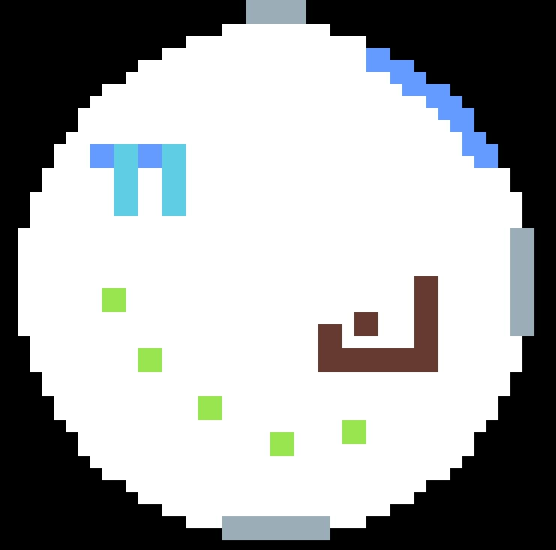
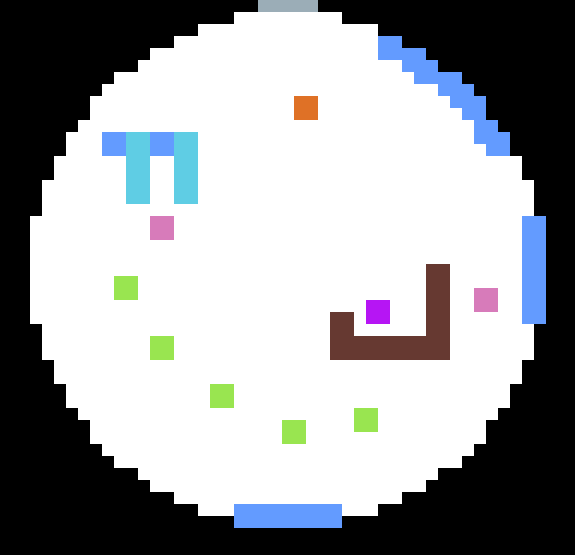
#14 #18 Updated medbay to include enemy/player pos; Added Legend to README

diff --git a/concept/README.md b/concept/README.md
@@ -48,6 +48,8 @@ Research Lab | 1 Normal, 1 Red, 1 Green, 1 Large + Recoil avoidance + Grav Plati
 
 **Note**: All rooms are sealed once the player enters them. They have to complete the challenge to leave.
 
+![Legend](images/00_room_legend.png)
+
 1. ### Crew Quarters 
     * Starting room? Safe room with no monsters if the player needs a breather.
     * Retrieve your personal effects?
@@ -63,7 +65,7 @@ Research Lab | 1 Normal, 1 Red, 1 Green, 1 Large + Recoil avoidance + Grav Plati
     * This can add a time limit to the game at first, which is alleviated once the threat is neutralized.
     * *Discussion* - Should this be a recurring threat that the player might have to revisit a few times if they are taking too long?
     * [ ] From the start of the game, the oxygen levels will start to drain. The player has 5 real-time minutes to defeat the spiders in this room before game over.
-    * [ ] Interactible 1: The player can either shoot or interact with an oxygen canister to cause it to explode, resulting in a fire square that will destroy the enemy.**
+    * [ ] Interactible 1: The player can either shoot or interact with an oxygen canister to cause it to explode, resulting in a fire square that will destroy the enemy.
     * [ ] Interactible 2: After the spiders are destroyed, the player can interact with the computer console to shut down the oxygen timer and extinguish the fires.
 1. ### Medical Bay
     * Gather medical supplies for the journey home
